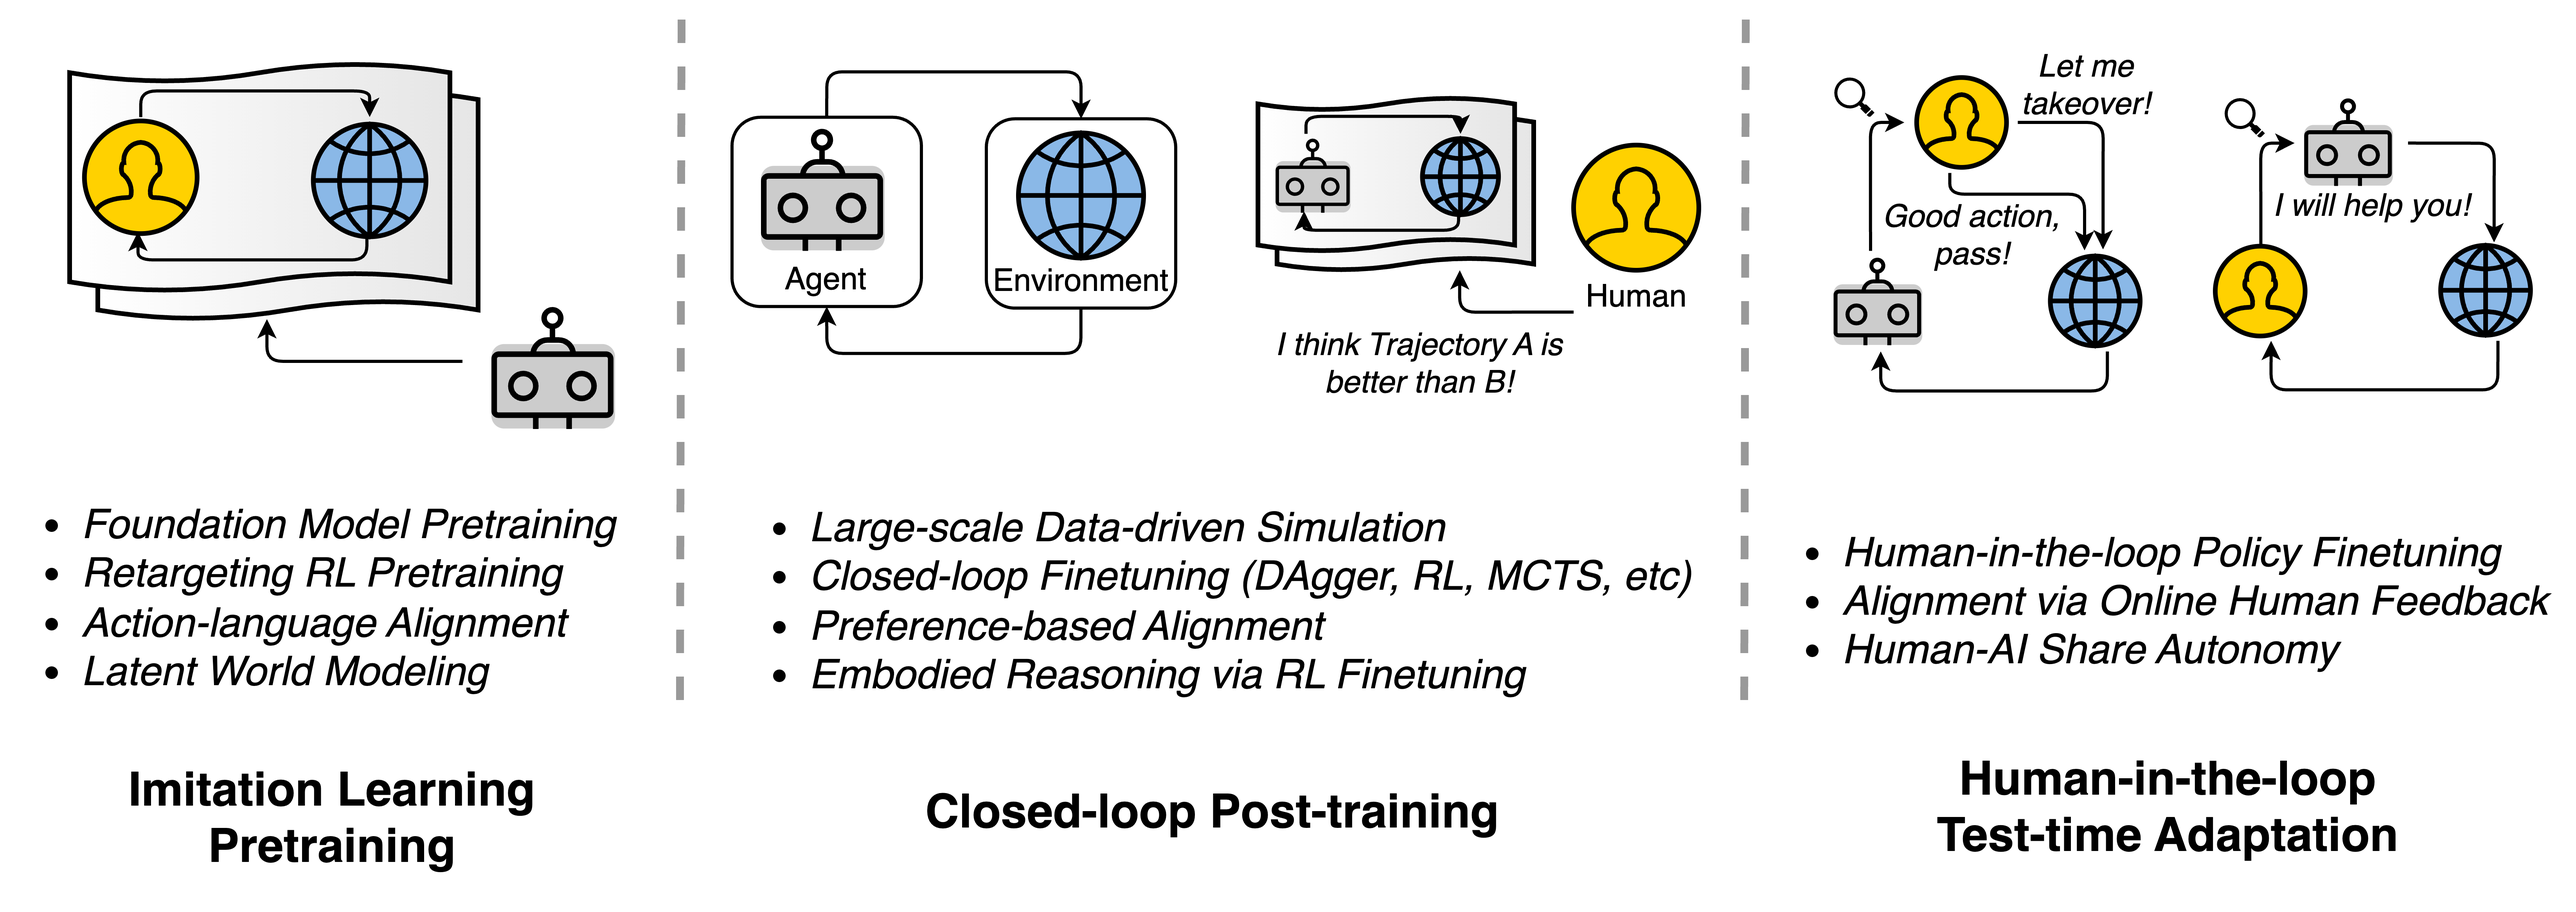
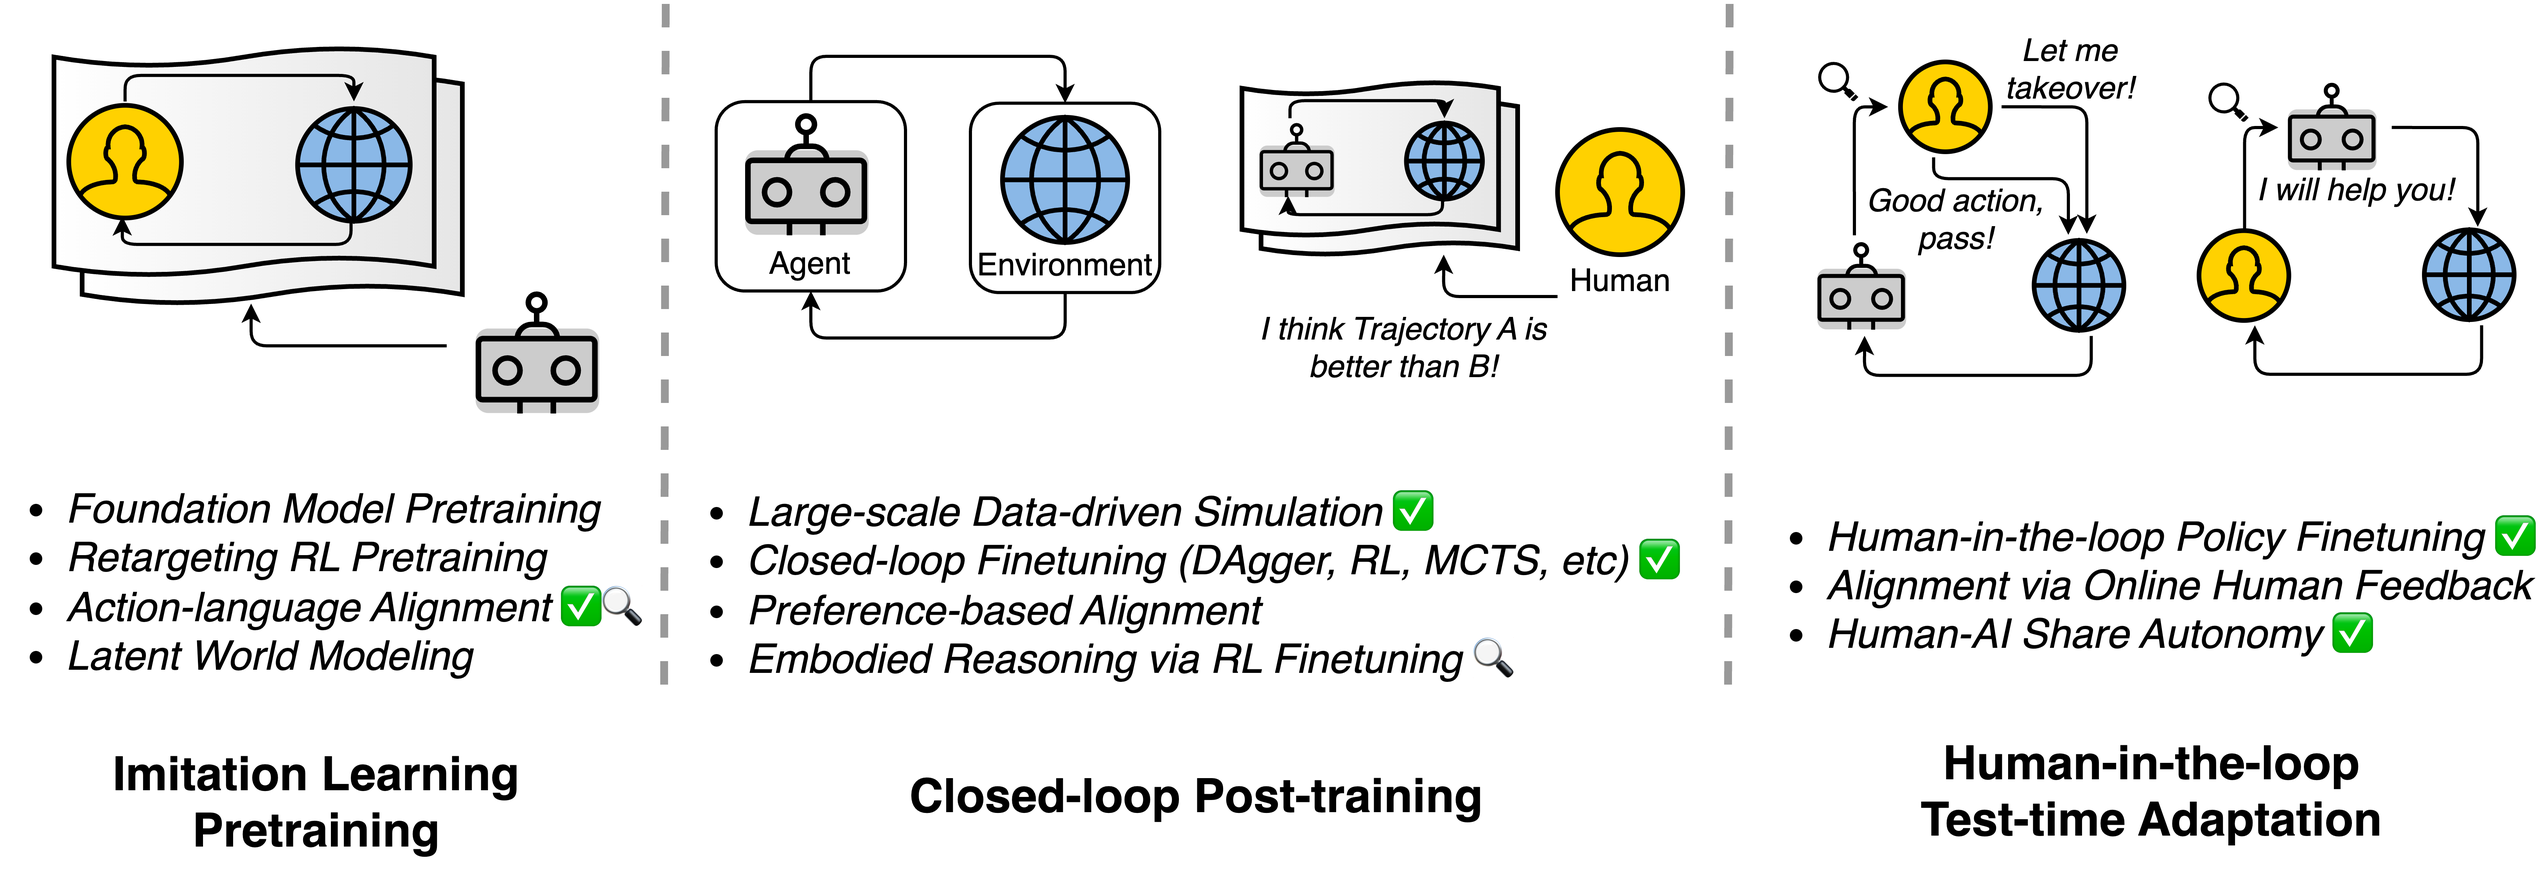
Finish RS

diff --git a/_pages/research_statement.md b/_pages/research_statement.md
@@ -2,7 +2,7 @@
 layout: page
 permalink: /research/
 title: Research Statement
-description: Zhenghao Peng, Aug 17, 2025
+description: Zhenghao Peng, Aug 18, 2025
 nav: true
 nav_order: 2
 ---
@@ -25,8 +25,7 @@ nav_order: 2
 
 ### Road to Physical AI
 
-My research aims to build foundation models for robotics that are scalable, aligned, and deployable in the real world. The overarching vision is to endow embodied agents with the understanding of the world and the ability to execute basic skills, align with human intent, and continuously adapt in open-ended environments. 
-
+My research aims to build foundation models for robotics that are scalable, aligned, and deployable in the real world.
 
 As shown in the figure below, I organize this agenda into three complementary stages: 
 
@@ -34,9 +33,10 @@ As shown in the figure below, I organize this agenda into three complementary st
 2. Closed-loop post-training, and
 3. Human-in-the-loop test-time adaptation.
 
+I started my research in 2018. Since then, I have published 16 papers in top-tier AI and robotics conferences, such as NeurIPS, ICLR, CoRL, ICRA, ICML, ECCV, *etc*. This research statement provides an overview of my work and future directions in each stage.
 
-{% include figure.liquid zoomable=1 avoid_scaling=1 loading="eager" path="assets/img/Framework.png" class="img-fluid rounded z-depth-1" caption="<b>Road to Physical AI:</b> The capacities of physical AI agent are acquired via pretraining, closed-loop finetuning, and  human-in-the-loop test-time adaptation. Important problems in each stage are listed." %}
 
+{% include figure.liquid zoomable=1 avoid_scaling=1 loading="eager" path="assets/img/Framework.png" class="img-fluid rounded z-depth-1" caption="<b>Road to Physical AI:</b> The capacities of physical AI agent are acquired via pretraining, closed-loop finetuning, and  human-in-the-loop test-time adaptation. Important problems in each stage are listed. ✅: I have experience on. 🔍: Discovering." %}
 
 
 <br>
@@ -47,7 +47,7 @@ Imitation learning provides the foundation for physical AI. My recent work focus
 
 In [MetaVQA](https://metadriverse.github.io/metavqa/), we constructed datasets to provide 3D grounding and physical reasoning to VLAs.
 
-Currently, I am exploring methods to ensure actions produced by the model are semantically meaningful and physically grounded, enabling reasoning about both execution and consequences.
+Currently, I am exploring methods to ensure the model understands the actions it produced semantically, enabling reasoning about both execution and consequences.
 
 
 <br>
@@ -59,17 +59,21 @@ Currently, I am exploring methods to ensure actions produced by the model are se
 </div>
 
 
-While imitation learning offers strong initialization, open-loop behavior cloning often fails in real deployments. Closed-loop post-training bridges this gap.
+While imitation learning offers strong initialization, open-loop behavior cloning often fails in real deployments. Closed-loop post-training in simulation bridges this gap. I've been exploring the methods to improve the fidelity of data-driven simulation.
 
-**Simulation platforms**: I built [MetaDrive](https://github.com/metadriverse/metadrive) and [ScenarioNet](https://metadriverse.github.io/scenarionet/), enabling large-scale data-driven simulation.
+**Simulation Platforms:** I built [MetaDrive](https://github.com/metadriverse/metadrive) and [ScenarioNet](https://metadriverse.github.io/scenarionet/), enabling large-scale data-driven simulation.
 MetaDrive has received 1,000+ GitHub stars and 350+ citations, becoming a widely used benchmark in the community.
 
-**Improving realism**: [SceneGen](https://metadriverse.github.io/simgen/) (Diffusion models) and [Vid2Sim](https://metadriverse.github.io/vid2sim/) (3D Gaussian Splatting) rerender visual environments from real videos, creating photorealistic RL environments.
+**Data-driven Environment Generation:**
+[InfGen](https://arxiv.org/pdf/2506.23316) is a scenario generation transformer that augments dynamic multi-agent traffic situations.
+[CAT](https://metadriverse.github.io/cat/) and [Adv-BMT](https://arxiv.org/pdf/2506.09485) generate adversarial driving scenarios.
+We show that training RL agents on the scenarios generated by above models can greatly improve it's closed-loop performance,
+showing that improving the dynamic realism of simulation is crucial for closed-loop RL.
 
-**Data-driven training environments generation**: [CAT](https://metadriverse.github.io/cat/) and [Adv-BMT](https://arxiv.org/pdf/2506.09485) generate adversarial driving scenarios.
-[InfGen](https://arxiv.org/pdf/2506.23316) augments dynamic multi-agent traffic situations.
+**Improving Visual Realism:**
+[SceneGen](https://metadriverse.github.io/simgen/) (Diffusion models) and [Vid2Sim](https://metadriverse.github.io/vid2sim/) (3D Gaussian Splatting) rerender visual environments from real videos, creating photorealistic RL environments.
 
-**Closed-loop finetuning**: We can post-train a large transformer model with [closed-loop RL finetuning](https://arxiv.org/pdf/2409.18343), which greatly improves the multi-agent behaviors.
+**Closed-loop finetuning:** We can post-train a large transformer model with [closed-loop RL finetuning](https://arxiv.org/pdf/2409.18343), which greatly improves the multi-agent behaviors.
 
 I am exploring the embodied reasoning as a new way to improve VLA.
 
@@ -78,31 +82,49 @@ I am exploring the embodied reasoning as a new way to improve VLA.
 ### Human-in-the-Loop Test-Time Adaptation
 
 
-<div class="float-right-40">
-{% include figure.liquid loading="eager" path="assets/img/RS-Experiment.png" class="img-fluid rounded" caption="Our method exhibits unprecedented learning efficiency: agents achieve higher performance with significantly fewer data in real-human experiments." %}
+<div class="float-right-30">
+{% include figure.liquid loading="eager" path="assets/img/RS-Experiment.png" class="img-fluid rounded" caption="Our method exhibits unprecedented learning efficiency." %}
 </div>
 
 
-Even with large-scale simulation and RL, agents inevitably face a sim-to-real gap when deployed. Closing this gap requires humans in the loop, providing real-time interventions and feedback to align the agent’s behavior with human values.
+Even with large-scale simulation and RL, agents inevitably face a sim-to-real gap when deployed. 
+Closing this gap requires humans in the loop, providing real-time interventions and feedback to align the agent’s behavior with human values.
 
-Over the years, I have pioneered this research direction with 5 papers. Key contributions:
+Over the years, I have pioneered this research direction with 5 papers:
 
-* [EGPO](https://decisionforce.github.io/EGPO/) (CoRL 2021): Introduced expert-guided policy optimization using teacher interventions.
-* [HACO](https://decisionforce.github.io/HACO/) (ICLR 2022): Substituted expert with real human feedback, achieving faster adaptation.
-* [TS2C](https://metadriverse.github.io/TS2C/) (ICLR 2023): Used value function–based intervention to improve teacher–student shared control.
-* [Proxy Value Propagation (PVP)](https://metadriverse.github.io/pvp/) (NeurIPS 2023 Spotlight): Addressed reward-free adaptation, reducing oscillations and catastrophic forgetting.
-* [PVP4Real](https://metadriverse.github.io/pvp4real/) (ICRA 2025): Deployed PVP on real robots, showing adaptation within 15 minutes of human interaction.
+**[EGPO](https://decisionforce.github.io/EGPO/) (CoRL 2021):** Our research on human-in-the-loop policy learning began in 2021. The first published work is Expert Guided Policy Optimization (EGPO). In this work, we explored how an RL agent can benefit from the intervention of a PPO expert.
+
+
+**[HACO](https://decisionforce.github.io/HACO/) (ICLR 2022):** Building upon the methodology of EGPO, and substituting the PPO expert with a **real human subject**, we proposed Human-AI Copilot Optimization (HACO) and it demonstrated significant improvements in learning efficiency over traditional RL baselines.
+
+
+**[TS2C](https://metadriverse.github.io/TS2C/) (ICLR 2023):** In Teacher-Student Shared Control (TS2C), we examined the impact of using the value function as a criterion for determining when the PPO expert should intervene. The value function-based intervention makes it possible for the student agent to learn from a suboptimal teacher.
+
+**[Proxy Value Propagation (PVP)](https://metadriverse.github.io/pvp/) (NeurIPS 2023 Spotlight):** Considering the **reward-free setting**, we proposed several improvements to enhance learning from active human involvement. These improvements address issues observed in HACO, including the jittering and oscillation of the learning agent, catastrophic forgetting, and challenges in learning sparse yet crucial behaviors.
+
+**[PVP4Real](https://metadriverse.github.io/pvp4real/) (ICRA 2025):** Deploying PVP on real robots, **we train two mobile robots (Go2 and delivery robot) from scratch, without reward, in real world, in real time**. We show that the embodied agents can learn (1) safe navigation and (2) human following tasks within 15 minutes on wall time.
 
 This line of work establishes test-time post-training as the final stage of robotic learning: a continual feedback loop where human guidance ensures safety, adaptability, and alignment.
 
-One interesting direction I want to explore is the [human-AI shared control](https://www.arxiv.org/pdf/2409.15317). Collaborating with Prof. Jonathan Kao, we have demonstrated that with a diffusion copilot (agent) in the loop, the shared autonomy system can improve the noisy behavior of human, showing the potential of improving human performance through human-AI shared control.
+One interesting direction I've explored is **assistive AI**. Collaborating with Prof. Jonathan Kao, we have built 
+[Interventional Diffusion Assistance (IDA)](https://www.arxiv.org/pdf/2409.15317), a novel AI framework for dynamically sharing control between human users and AI agents, empowering the human users to achieve better performance in control tasks via the synergy of human and AI assistant.
+Beyond assistive technology, this direction also holds promise for domains like rehabilitation, prosthetic control, and even high-stakes human–robot collaboration in healthcare or industrial settings.
 
 
 <br>
 
 ### Outlook
 
-By integrating the three stages—foundation model pretraining, closed-loop reinforcement learning, and human-in-the-loop test-time adaptation—my research lays the groundwork for scalable and trustworthy embodied AI.
+By integrating the three stages---imitation learning pretraining, closed-loop fine-tuning, and human-in-the-loop test-time adaptation---my research lays the groundwork for scalable and trustworthy embodied AI.
 
-My long-term goal is to build robots that serve as capable, adaptive, and aligned partners, advancing human well-being in domains such as autonomous driving, assistive robotics, and everyday human–robot interaction.
+My long-term goal is to build robots that serve as capable, adaptive, and aligned partners, advancing human well-being.
 
+Here list my personal **values** that guide my research and development of physical AI:
+
+* Safety: Robots must never endanger humans. Safety and robustness are the primary principles guiding system design and deployment.
+
+* Human-Centered: Robots should augment human capabilities and improve well-being, rather than marginalize people. Robots should adapt to human intentions and preferences, ensuring alignment with ethical norms and social good.
+
+* Equity and Accessibility: Robotic technologies should be accessible and beneficial to diverse populations, not only privileged groups or large corporations.
+
+* Sustainability: Development of physical AI should minimize negative environmental and societal impacts. Robotics should not create large-scale social crises, such as mass unemployment and misuse in warfare.
